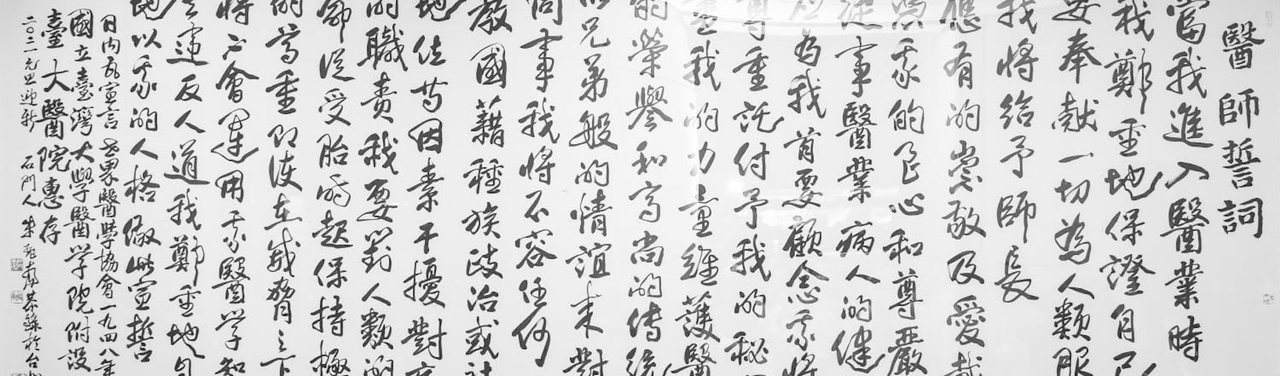
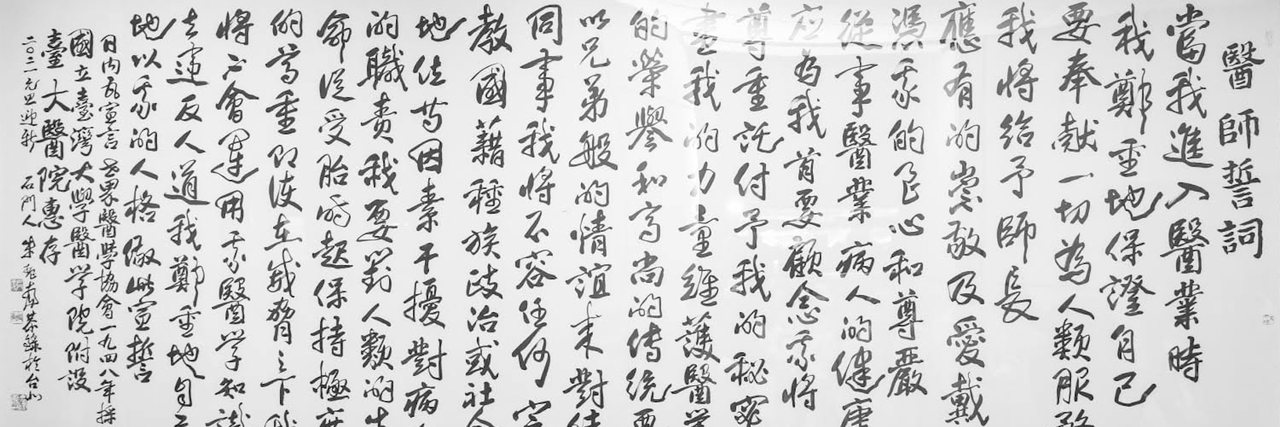
修正手機方磚不顯示圖片；兩張長方磚改為整列上下排、急重症處置在上
**手機方磚只剩底色**：濾鏡 defs 掛在 width="0" height="0" 的 <svg> 上，
零尺寸會被繪製階段整個略過，第一屏以下引用 filter:url(#plate-duo) 的
<img> 便不上色、只看到方磚底色，捲到該處才補畫。手機一屏放不下六張，
於是幾乎整片灰。改為 1×1 並移出畫面外（left:-9999px）即正常。
index.html 與 tools/cancer.html 兩處同樣寫法，一併修正——癌別有 30 張，
第一屏以下的比例更高。

**版位**：兩張長方磚改為各自佔滿一整列、急重症處置在上、藥物資料庫在下
（電腦與手機皆同）。電腦一列 820px 若照手機的 3.4:1 會高達 241px、比方磚
還高，故電腦壓成 5.5:1（149px）、手機維持 3.4:1（102px）；字級係數隨之
分兩種版位各取方磚的 1/4.18 與 1/2.06，實測與方磚同為 33.3px／28.6px。

**圖**：改存 3.0:1（1280×427）。比兩種版位的方框都窄，故一律只裁上下、
左右滿幅——「醫師誓詞」標題在最右緣，橫向一裁就沒了。

diff --git a/css/styles.css b/css/styles.css
@@ -119,14 +119,15 @@
      變數scoped 在 .hub-grid：cancer-staging.css 有同名的 :root 變數，兩者互不載入同一頁，
      但仍避免日後同頁載入時互相覆寫。 */
   .hub-grid{
-    /* 電腦：四張方磚一行（滿版），兩張長方磚各壓在其中兩張之下（第二列）；
-       平板以下折成 2 欄，長方磚同樣緊接在自己那兩張方磚下面。
+    /* 電腦：四張方磚一行（滿版），兩張長方磚各佔滿一整列、急重症處置在上；
+       平板以下折成 2 欄，四張方磚 2×2，兩張長方磚同樣整列疊在下面、順序不變。
        版位以 grid-template-areas 明寫，故 HTML 的順序不影響排版。
        （2×2 若在電腦全寬呈現，820px 的正方形會高達 1600px，一屏塞不下，故仍限寬置中） */
     display:grid; grid-template-columns:repeat(4,1fr); gap:12px; margin:0 0 8px;
     grid-template-areas:
       "abd abx canc scor"
-      "crit crit drug drug";
+      "crit crit crit crit"
+      "drug drug drug drug";
     --tile-bg:#e9e7e1;
     --tile-label:#fdf8ee; --tile-label-soft:rgba(253,248,238,.86);
     --tile-label-shadow:0 0 2px rgba(0,0,0,.95), 0 0 4px rgba(0,0,0,.85), 0 1px 3px rgba(0,0,0,.85), 0 0 9px rgba(0,0,0,.6);
@@ -154,8 +155,8 @@
       grid-template-columns:1fr 1fr; gap:10px; max-width:560px; margin-inline:auto;
       grid-template-areas:
         "abd abx"
-        "crit crit"
         "canc scor"
+        "crit crit"
         "drug drug";
     }
   }
@@ -211,15 +212,26 @@
   }
 
   /* ---- 長方磚（急重症處置／藥物資料庫）----
-     橫跨兩欄，故中文不拆上下兩半、改為單行加英文副標。
-     字級要與方磚看起來一樣大：cqw 是「自己寬度」的百分比，而長方磚正好是
-     兩張方磚加一道 gap（約 2.06 倍寬），故係數取方磚的一半（17→8.25、6.2→3）、
-     上下限照抄，兩種版位算出來的字級才會落在同一個尺寸。
+     整列橫跨，故中文不拆上下兩半、改為單行加英文副標。
+     高度：電腦一列 820px 若照手機的 3.4:1 會高達 241px、比方磚還高，兩條疊起來
+     整個首屏都是橫幅，故電腦壓成 5.5:1（≈149px）、手機維持 3.4:1（≈102px）。
+
+     字級要與方磚看起來一樣大：cqw 是「自己寬度」的百分比，而長方磚是
+     電腦 4 張方磚＋3 道 gap（≈4.18 倍寬）、手機 2 張＋1 道（≈2.06 倍寬），
+     故係數各取方磚的 1/4.18 與 1/2.06（17→4.07／8.25，6.2→1.48／3），
+     上下限照抄方磚，兩種版位算出來的字級才會落在同一個尺寸。
      不支援容器查詢時兩者都吃 vw，本來就同大小，無須另寫。 */
-  .hub-card--wide{aspect-ratio:3.4/1;}
+  .hub-card--wide{aspect-ratio:5.5/1;}
+  @media(max-width:720px){
+    .hub-card--wide{aspect-ratio:3.4/1;}
+  }
   @supports (font-size:1cqw){
-    .hub-card--wide .hub-zh{font-size:clamp(22px,8.25cqw,40px);}
-    .hub-card--wide .hub-en{font-size:clamp(9.5px,3cqw,14px);}
+    .hub-card--wide .hub-zh{font-size:clamp(22px,4.07cqw,40px);}
+    .hub-card--wide .hub-en{font-size:clamp(9.5px,1.48cqw,14px);}
+    @media(max-width:720px){
+      .hub-card--wide .hub-zh{font-size:clamp(22px,8.25cqw,40px);}
+      .hub-card--wide .hub-en{font-size:clamp(9.5px,3cqw,14px);}
+    }
   }
 
   /* ---- 尚未配圖的方磚 ----

diff --git a/tools/cancer.html b/tools/cancer.html
@@ -29,8 +29,11 @@
   </div>
 
   <input type="text" class="onc-search" id="oncSearch" placeholder="搜尋癌症（中文／英文，例：胃、gastric、NET）…" oninput="renderPicker(this.value)">
-  <!-- 方磚圖版上色:亮色→淺灰版畫、暗色→深板岩反相。sRGB 不可省,否則中間調會再偏一次 -->
-  <svg width="0" height="0" style="position:absolute" aria-hidden="true"><defs>
+  <!-- 方磚圖版上色:亮色→淺灰版畫、暗色→深板岩反相。sRGB 不可省,否則中間調會再偏一次。
+       尺寸給 1×1 移出畫面外,不用 width="0" height="0":零尺寸的 SVG 會被繪製階段整個略過,
+       手機上第一屏以下的方磚就只剩底色(要捲到才補畫);癌別有 30 張,幾乎整頁都在第一屏以下。 -->
+  <svg width="1" height="1" aria-hidden="true"
+       style="position:absolute;left:-9999px;top:0;pointer-events:none"><defs>
     <filter id="plate-duo" color-interpolation-filters="sRGB">
       <feColorMatrix type="saturate" values="0"/>
       <feComponentTransfer>

diff --git a/index.html b/index.html
@@ -18,8 +18,11 @@
 </head>
 <body>
 <!-- 方磚圖版上色：亮色→淺灰版畫、暗色→深板岩反相。sRGB 不可省，否則中間調會再偏一次。
-     必須定義在引用它的 <img> 之前，否則首次繪製時 filter 尚未存在，整張圖不會顯示。 -->
-<svg width="0" height="0" style="position:absolute" aria-hidden="true"><defs>
+     必須定義在引用它的 <img> 之前，否則首次繪製時 filter 尚未存在，整張圖不會顯示。
+     尺寸給 1×1 移出畫面外，不用 width="0" height="0"：零尺寸的 SVG 會被繪製階段整個略過，
+     手機上第一屏以下的方磚就只剩底色（要捲到才補畫）——手機一屏放不下六張，等於幾乎全灰。 -->
+<svg width="1" height="1" aria-hidden="true"
+     style="position:absolute;left:-9999px;top:0;pointer-events:none"><defs>
   <filter id="plate-duo" color-interpolation-filters="sRGB">
     <feColorMatrix type="saturate" values="0"/>
     <feComponentTransfer>
